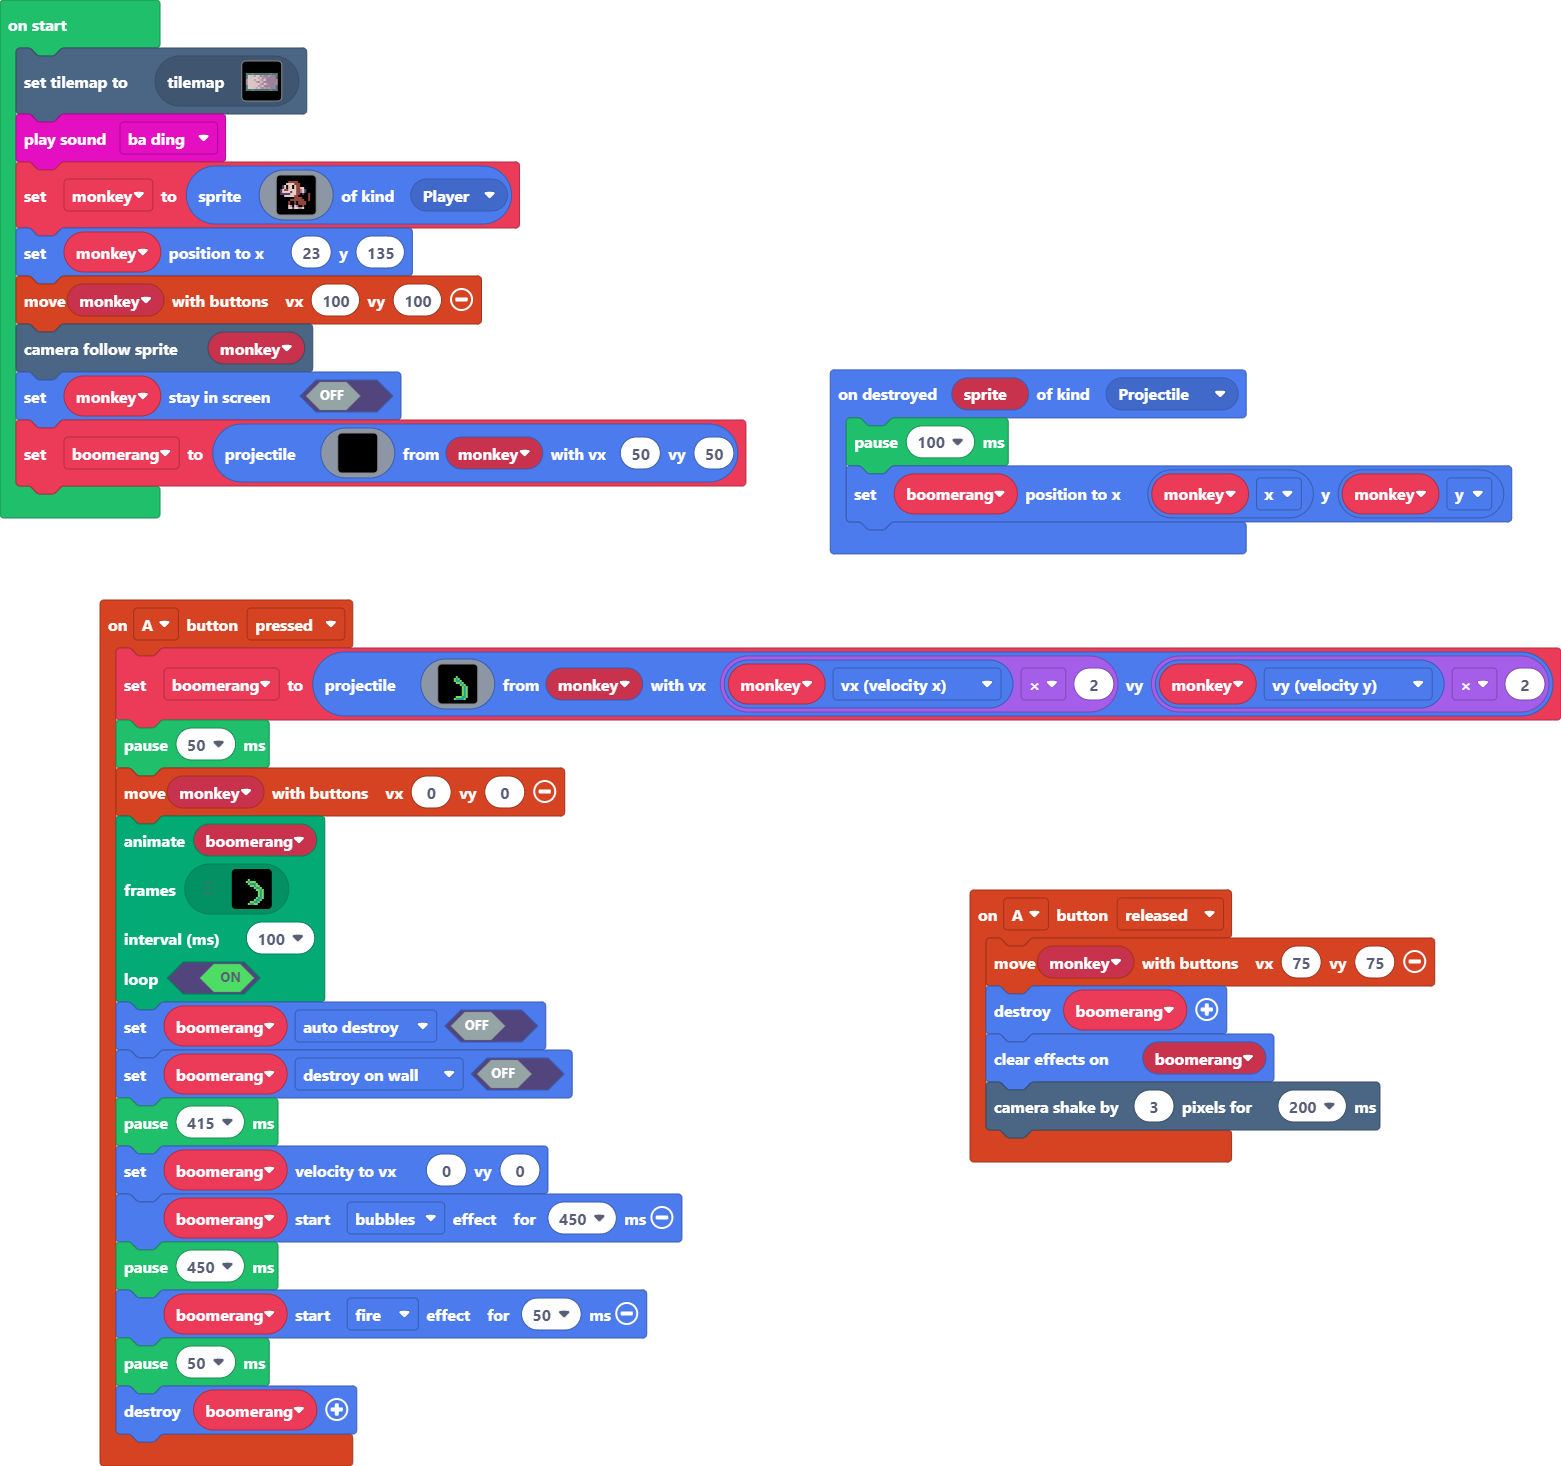
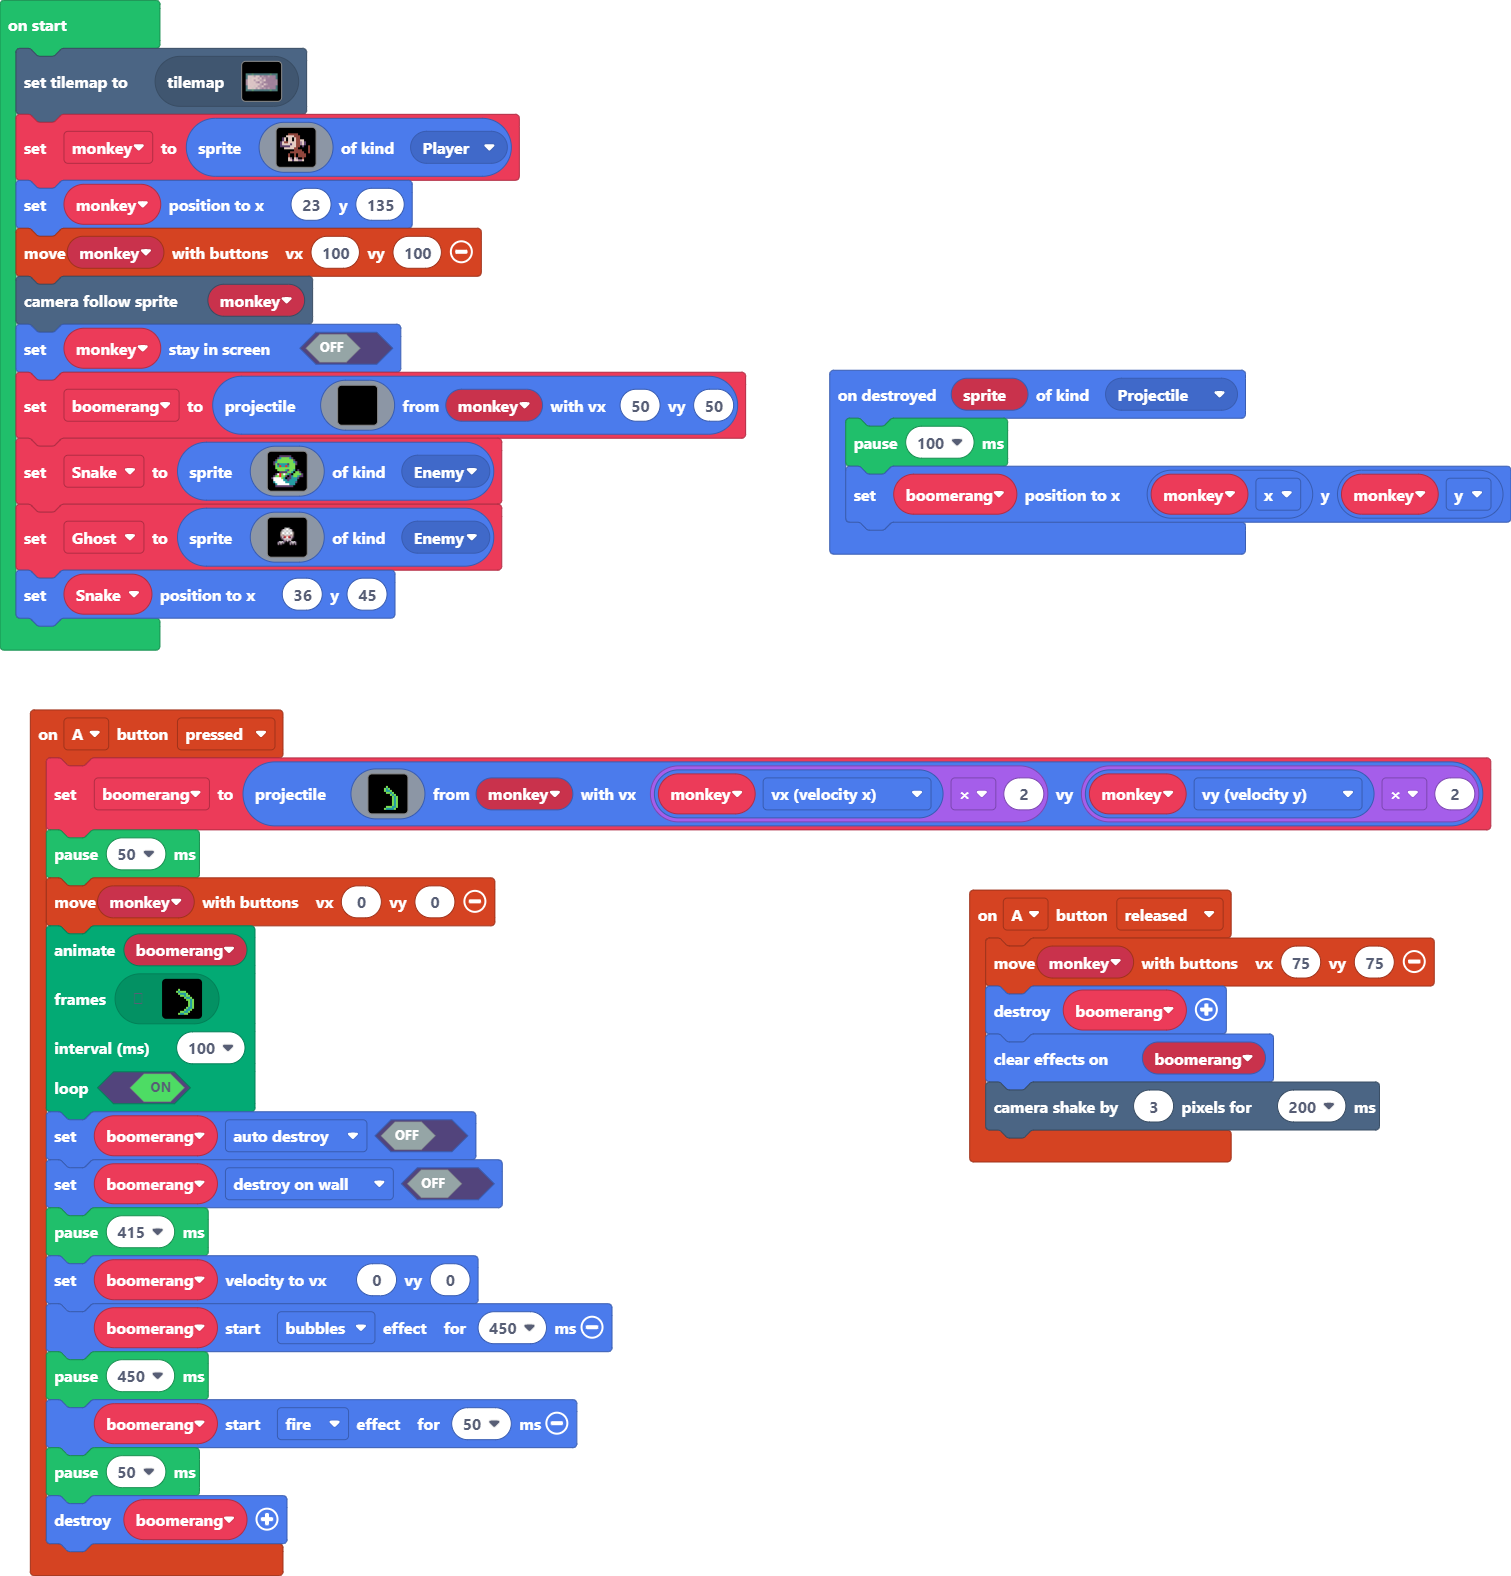
Update main.blocks, main.ts

diff --git a/main.ts b/main.ts
@@ -116,7 +116,6 @@ sprites.onDestroyed(SpriteKind.Projectile, function (sprite) {
 let boomerang: Sprite = null
 let monkey: Sprite = null
 tiles.setCurrentTilemap(tilemap`level1`)
-music.baDing.play()
 monkey = sprites.create(img`
     . . . . f f f f f . . . . . . . 
     . . . f e e e e e f . . . . . . 
@@ -157,3 +156,48 @@ boomerang = sprites.createProjectileFromSprite(img`
     . . . . . . . . . . . . . . . . 
     . . . . . . . . . . . . . . . . 
     `, monkey, 50, 50)
+let Snake = sprites.create(img`
+    . . . . c c c c c c . . . . . . 
+    . . . c 6 7 7 7 7 6 c . . . . . 
+    . . c 7 7 7 7 7 7 7 7 c . . . . 
+    . c 6 7 7 7 7 7 7 7 7 6 c . . . 
+    . c 7 c 6 6 6 6 c 7 7 7 c . . . 
+    . f 7 6 2 6 6 2 6 7 7 7 f . . . 
+    . f 7 7 7 7 7 7 7 7 7 7 f . . . 
+    . . f 7 7 7 7 6 c 7 7 6 f c . . 
+    . . . f c c c c 7 7 6 f 7 7 c . 
+    . . c 1 2 7 1 7 6 c f 7 7 7 7 c 
+    . c 7 7 2 7 7 c f c 6 7 7 6 c c 
+    c 1 1 1 1 7 6 f c c 6 6 6 c . . 
+    f 1 1 1 1 1 6 6 c 6 6 6 6 f . . 
+    f 6 1 1 1 1 1 6 6 6 6 6 c f . . 
+    . f 6 1 1 1 1 1 1 6 6 6 f . . . 
+    . . c c c c c c c c c f . . . . 
+    `, SpriteKind.Enemy)
+let Ghost = sprites.create(img`
+    ........................
+    ........................
+    ........................
+    ........................
+    ..........ffff..........
+    ........ff1111ff........
+    .......fb111111bf.......
+    .......f11111111f.......
+    ......fd11111111df......
+    ......fd11111111df......
+    ......fddd1111dddf......
+    ......fbdb2dd2bdbf......
+    ......fcdc2112cdcf......
+    .......fb111111bf.......
+    ......fffcdb1bdffff.....
+    ....fc111cbfbfc111cf....
+    ....f1b1b1ffff1b1b1f....
+    ....fbfbffffffbfbfbf....
+    .........ffffff.........
+    ...........fff..........
+    ........................
+    ........................
+    ........................
+    ........................
+    `, SpriteKind.Enemy)
+Snake.setPosition(36, 45)
